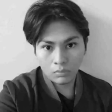
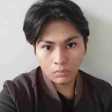
style: restore original colors in OG author portrait

Changed region(s): [[0.2946, 0.1875, 0.8036, 0.8839]]

diff --git a/src/server/og/presentation.ts b/src/server/og/presentation.ts
@@ -52,7 +52,7 @@ export type OgPresentation = ReturnType<typeof buildOgPresentation>;
 
 export function ogRevision(presentation: OgPresentation): string {
   return createHash("sha256")
-    .update(JSON.stringify(["inside-link-card-v4", presentation]))
+    .update(JSON.stringify(["inside-link-card-v5", presentation]))
     .digest("hex")
     .slice(0, 32);
 }
